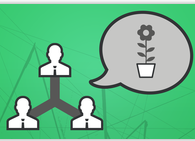
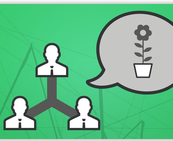
firstDemo

diff --git a/index2.html b/index2.html
@@ -14,6 +14,7 @@
     <!--<link rel="stylesheet" type="text/css" href="style.css" />-->
 	<title>Roadmap</title>
     <img src = "page2_img.png">
+    <h1 id = "title_here">Product Manager</h1>
 </head>
 <body><!-- onload="drawszlider(121, 121);-->
     <style>
@@ -61,7 +62,7 @@
 	    format = d3.format(",d"),
 	    color = d3.scale.category20c(),
 	    default_font_size = '10px',
-	    bigCircleTime = 7000,
+	    bigCircleTime = 10000,
 	    smallCircleTime = 3000;
 
 	var bubble = d3.layout.pack()
@@ -222,8 +223,8 @@
 		      .attr("fill", "url(#person_img1)")
 
 					
-		      .style("stroke", "grey")
-		      .style("stroke-width", "2");
+		      .style("stroke", "white")
+		      .style("stroke-width", "1");
 		      // .delay(smallCircleTime)
 		      // .remove();
 		      // .delay(smallCircleTime);
@@ -237,8 +238,8 @@
 		      .attr("transform", "translate(0,-50)")
 		      // .attr("class", "peopleCircle1")
 		      .attr("fill", "url(#person_img2)")
-		      .style("stroke", "grey")
-		      .style("stroke-width", "2");
+		      .style("stroke", "white")
+		      .style("stroke-width", "1");
 
 		 var smallCircle3 = d3.select(this).append("circle")
 		  	  .attr("r", 0)
@@ -248,8 +249,8 @@
 
 		      .attr("transform", "translate(30,-30)")
 		      .attr("fill", "url(#person_img3)")
-		      .style("stroke", "grey")
-		      .style("stroke-width", "2");
+		      .style("stroke", "white")
+		      .style("stroke-width", "1");
 
 		var defs = svg.append('defs');
 		var g = defs.append("pattern")
@@ -292,8 +293,8 @@
 		var img = g.append("image")
 					.attr("x", "0")
 					.attr("y", "0")
-					.attr("width", "30")
-					.attr("height", "30")
+					.attr("width", "25")
+					.attr("height", "25")
 					.attr("xlink:href", "/Images/People3.jpg");
 
 
@@ -311,7 +312,7 @@ var smallCircle4 = d3.select(this).append("circle")
 
 					
 		      .style("stroke", "grey")
-		      .style("stroke-width", "2");
+		      .style("stroke-width", "1");
 		      // .delay(smallCircleTime)
 		      // .remove();
 		      // .delay(smallCircleTime);
@@ -326,7 +327,7 @@ var smallCircle4 = d3.select(this).append("circle")
 		      // .attr("class", "peopleCircle1")
 		      .attr("fill", "url(#course_img2)")
 		      .style("stroke", "grey")
-		      .style("stroke-width", "2");
+		      .style("stroke-width", "1");
 
 		 var smallCircle6 = d3.select(this).append("circle")
 		  	  .attr("r", 0)
@@ -337,7 +338,7 @@ var smallCircle4 = d3.select(this).append("circle")
 		      .attr("transform", "translate(30,30)")
 		      .attr("fill", "url(#course_img3)")
 		      .style("stroke", "grey")
-		      .style("stroke-width", "2");
+		      .style("stroke-width", "1");
 
 		var defs = svg.append('defs');
 		var g = defs.append("pattern")
@@ -381,7 +382,7 @@ var smallCircle4 = d3.select(this).append("circle")
 					.attr("x", "0")
 					.attr("y", "0")
 					.attr("width", "30")
-					.attr("height", "20")
+					.attr("height", "23")
 					.attr("xlink:href", "/Images/Course3.png");
 
 
@@ -393,6 +394,7 @@ var smallCircle4 = d3.select(this).append("circle")
 
 	        .transition()
 	      .delay(bigCircleTime)
+	      // .on("click", clickMoveSmall)
 	      .attr("transform", orig_pos)
 	      .style("fill-opacity", 0.6)
 

diff --git a/assets/index.css b/assets/index.css
@@ -7,6 +7,16 @@
 	position: relative;
 }
 
+#title_here{
+	text-align: left;
+	font-family: Helvetica;
+	margin-left: 80px;
+	color: rgb(240,198,115);
+/*	-webkit-text-stroke-width: 1px;
+    -webkit-text-stroke-color: rgb(240,198,115);
+*/
+}
+
 .skills_false{
 	float:right;
 	/*fill: darkorange;*/
